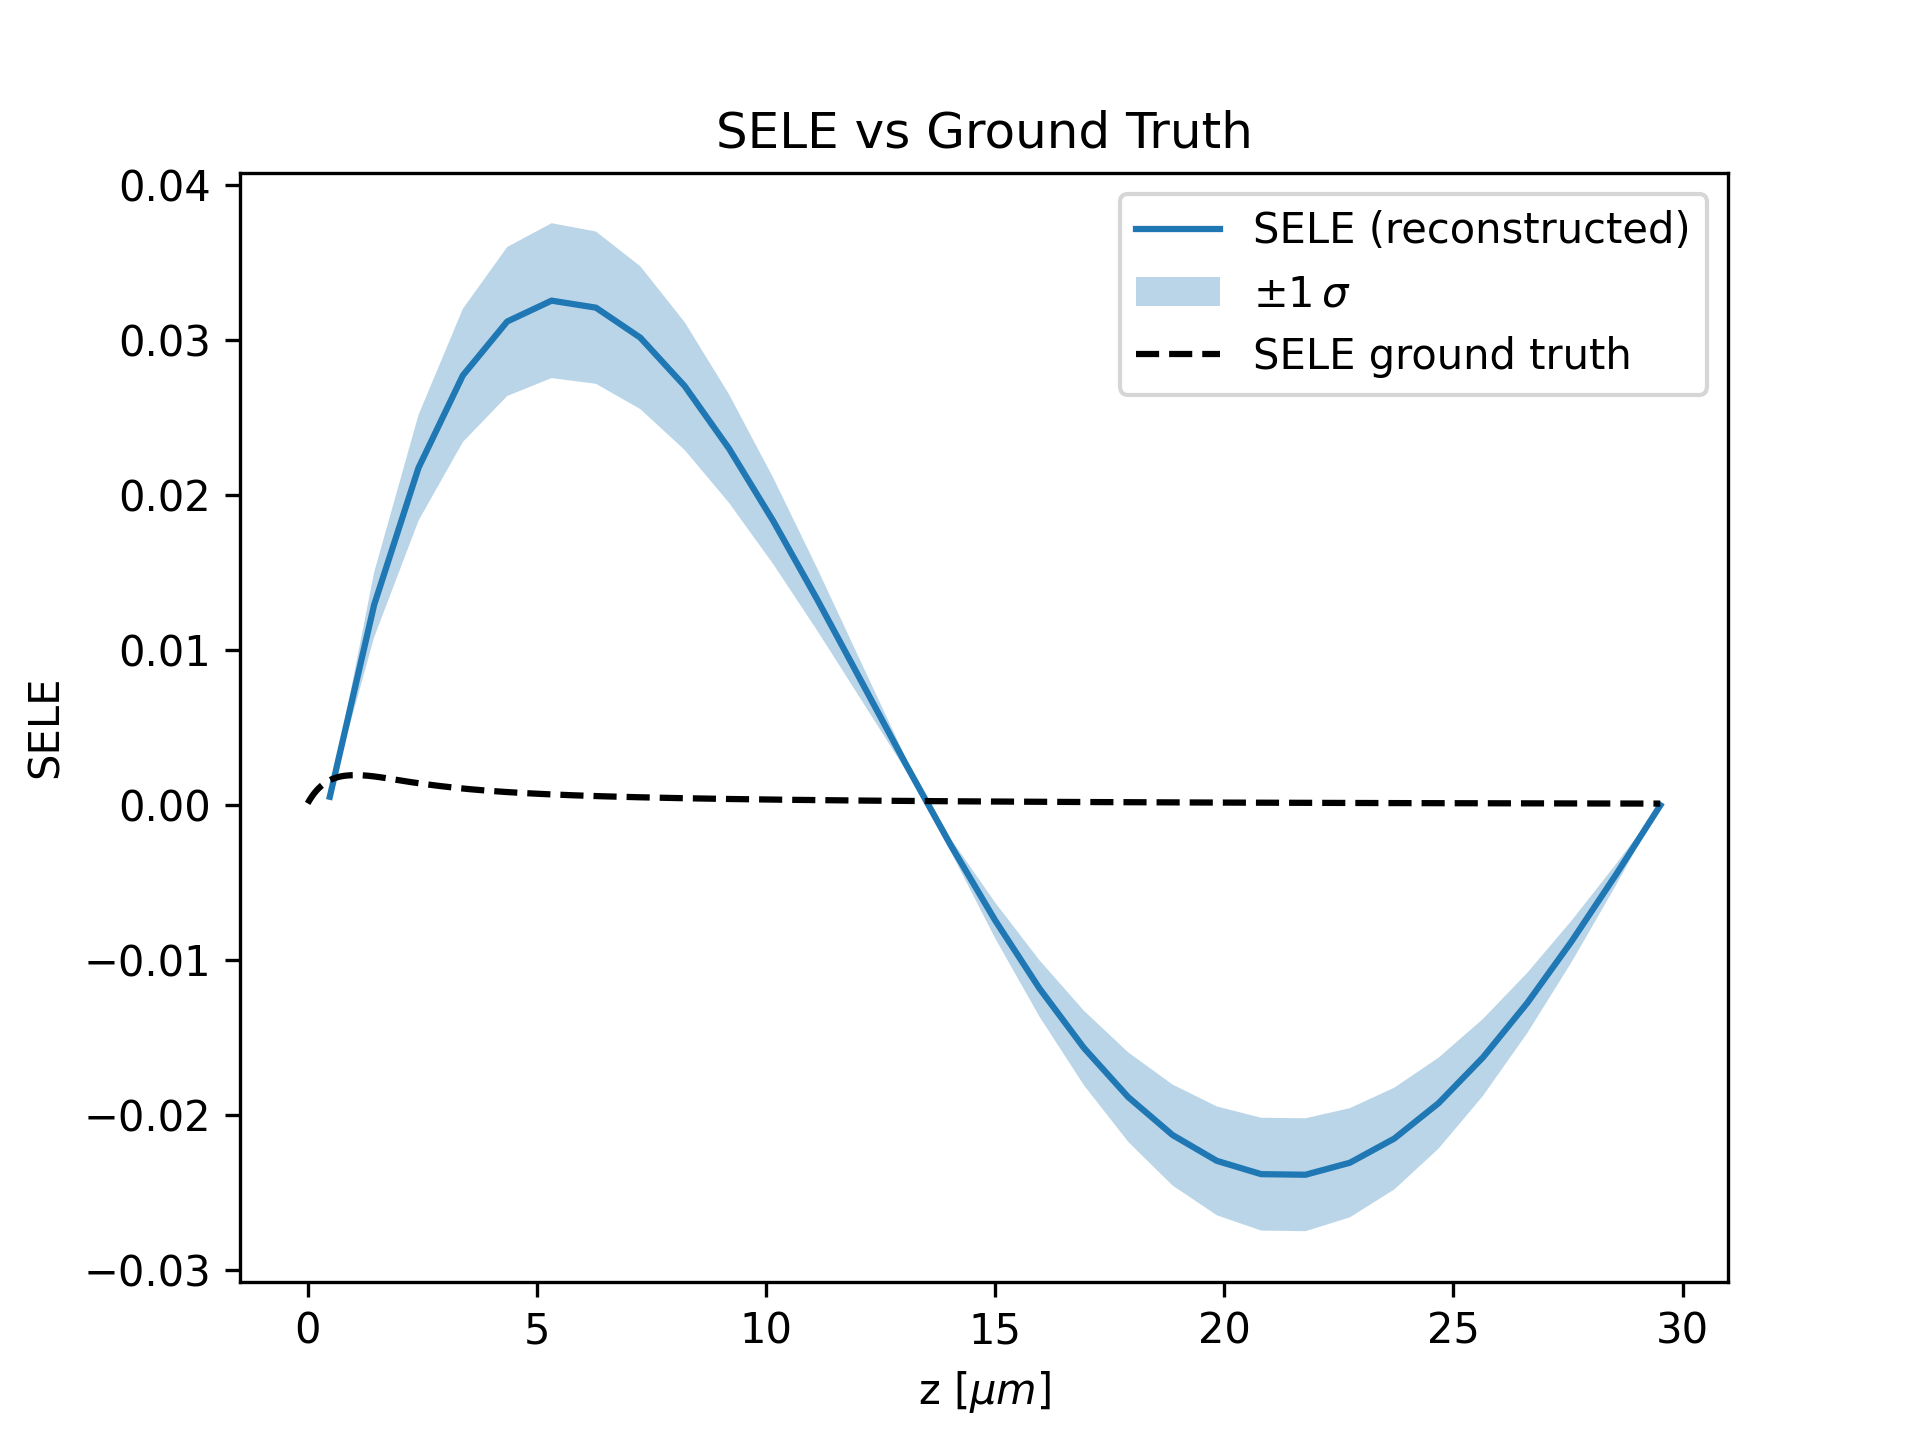
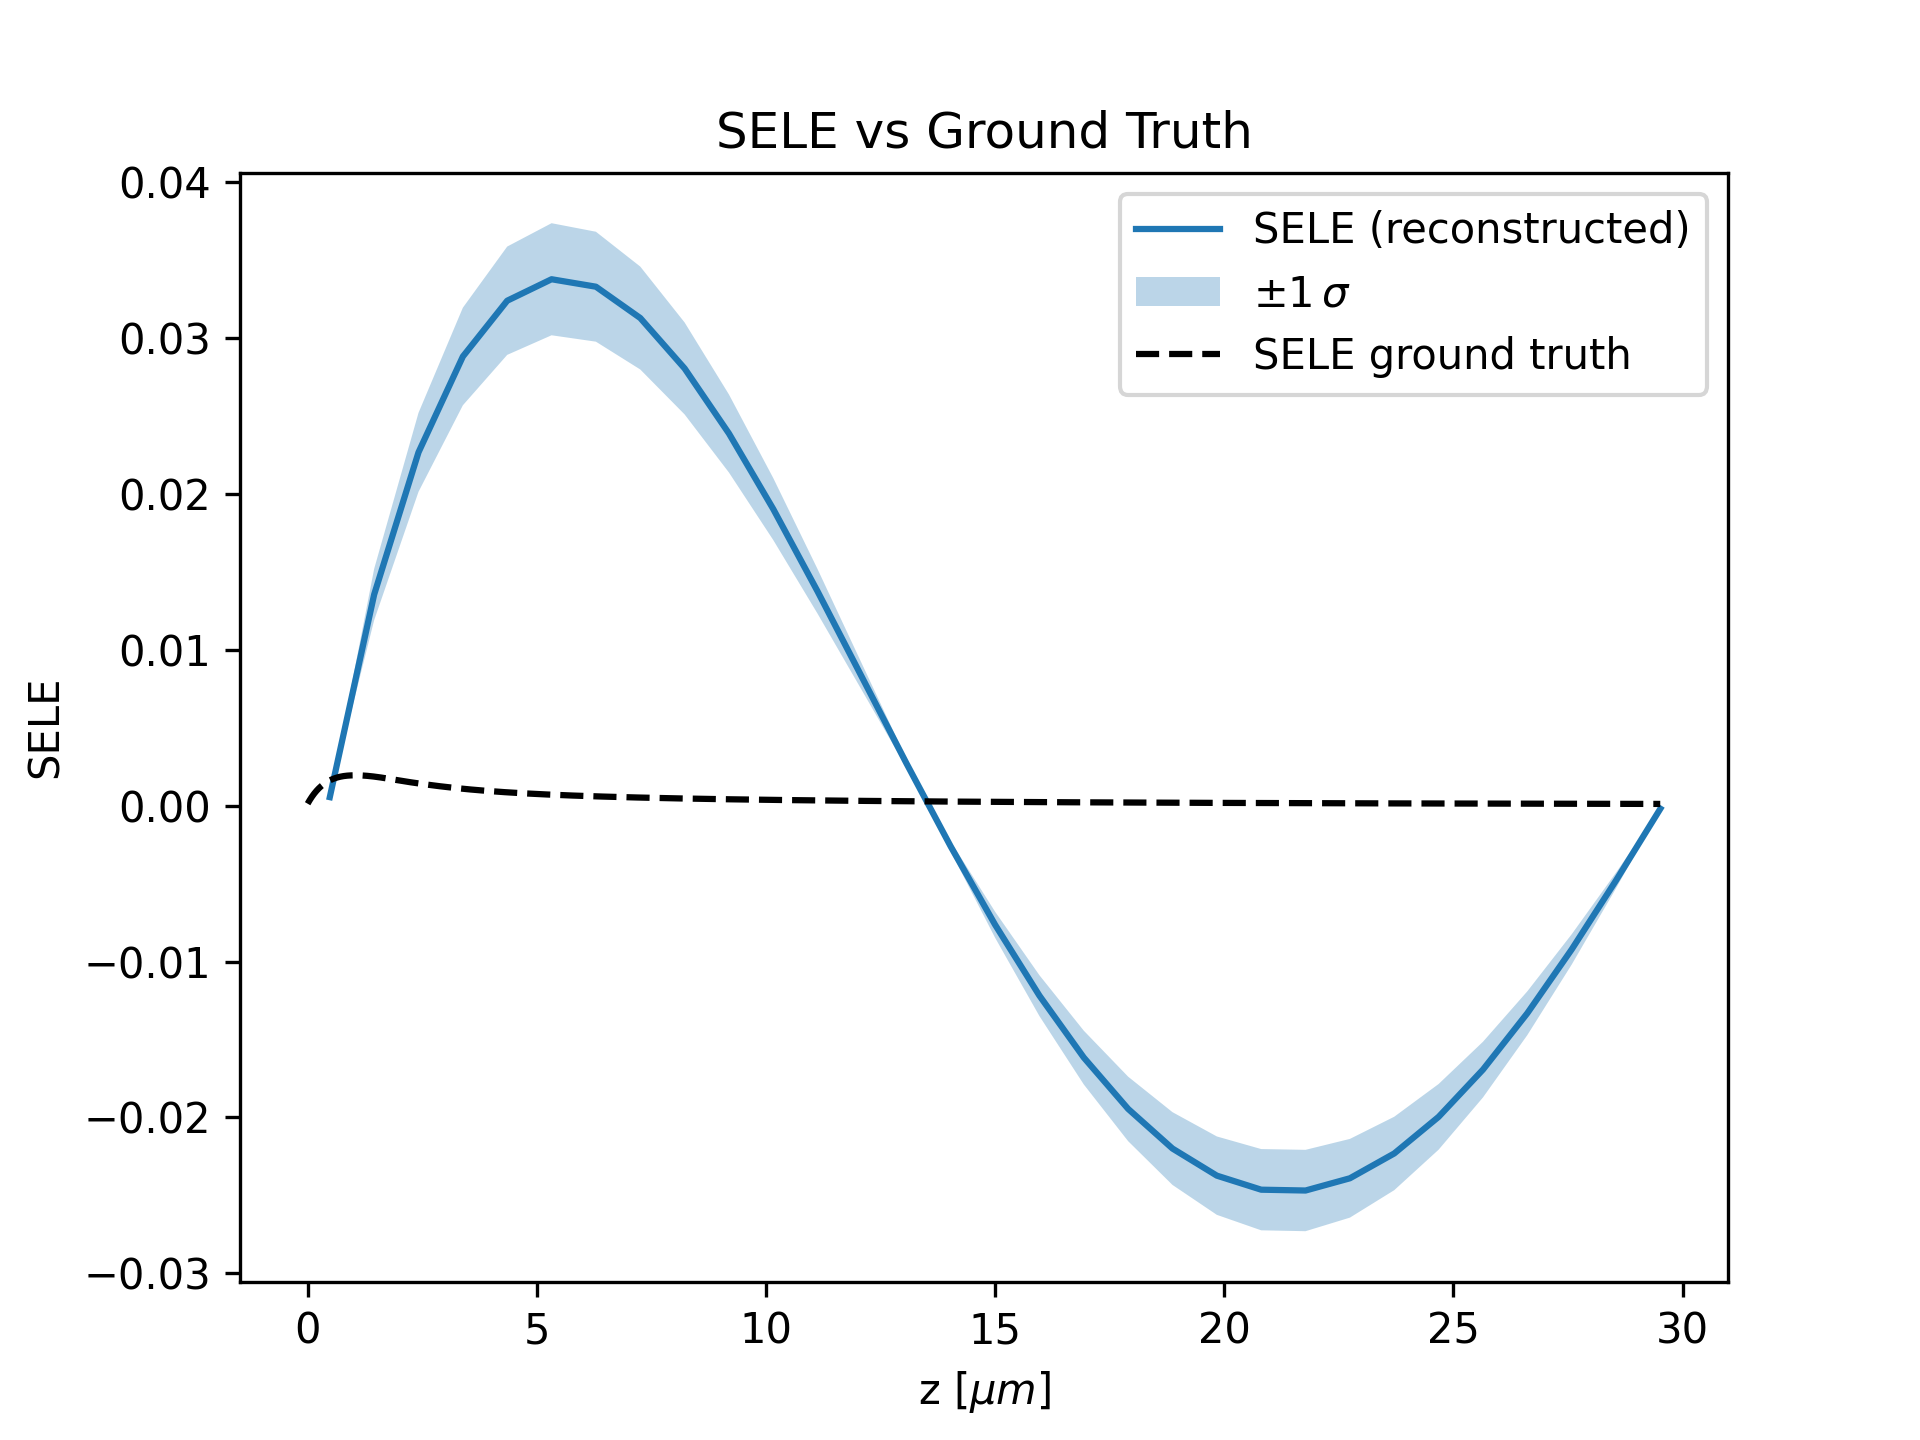
add: Tichonov multiply by kappa (doesn't change results)

diff --git a/src/tikhonov.py b/src/tikhonov.py
@@ -24,7 +24,7 @@ def solve_tikhonov(regularization_method: RegularizationMethod, G: NDArray, J: N
     L_force_last_zero = np.zeros(L.shape)
     L_force_last_zero[-1, -1] = 1 if CONFIG.force_SELE_last_zero else 0
     if regularization_method is RegularizationMethod.NON_UNIFORM_MESH:
-        K = np.vstack((G, kappa * L, L_force_last_zero))
+        K = np.vstack((G, kappa * L, kappa * L_force_last_zero))
         rhs = np.concatenate((J, np.zeros(L.shape[0]), np.zeros(L.shape[0])))
     elif regularization_method is RegularizationMethod.MODEL_SCORING:
         L_score = load_score_model_L()  # 32-long vector
@@ -33,7 +33,7 @@ def solve_tikhonov(regularization_method: RegularizationMethod, G: NDArray, J: N
                 f"Row mismatch between G and L_score: G[1] is {G.shape[1]} but L_score - 1 is {L_score.size - 1}")
         # Stack the solution G.shape[0] times
         L_score = np.tile(L_score[:31], (G.shape[0], 1))
-        K = np.vstack((G, kappa * L, L_score, L_force_last_zero))
+        K = np.vstack((G, kappa * L, kappa * L_score, kappa * L_force_last_zero))
         rhs = np.concatenate((J, np.zeros(L.shape[0]), np.zeros(G.shape[0]), np.zeros(L.shape[0])))
     else:
         raise NotImplementedError(
